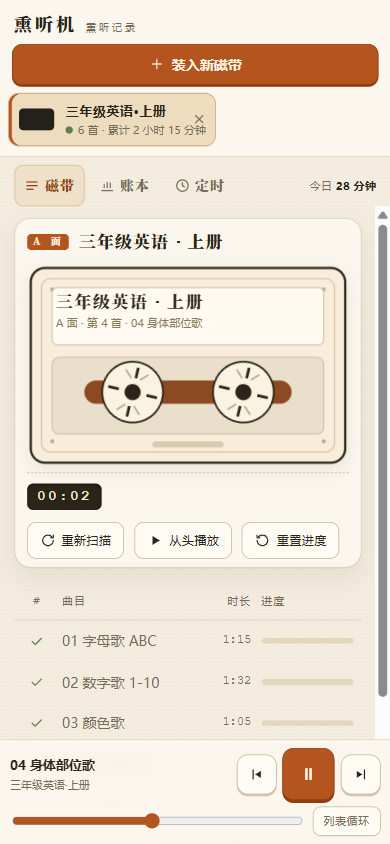
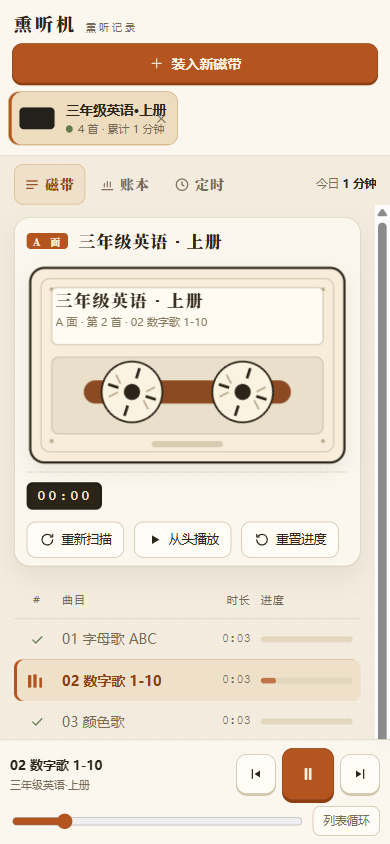
design: 二轮美化 - 播放均衡器动效、账本纸横格线红栏、朱红总计

diff --git a/docs/index.html b/docs/index.html
@@ -111,6 +111,12 @@ svg.ic{width:16px;height:16px;fill:none;stroke:currentColor;stroke-width:1.8;str
 .trow.playing{background:var(--accent-soft);box-shadow:inset 3px 0 0 var(--accent)}
 .trow.done .t-name{color:var(--ink2)}
 .t-idx{color:var(--ink2);text-align:center;font:11px/1 "Courier New",monospace;letter-spacing:1px;display:block;width:100%}
+.trow.playing .t-idx{color:var(--accent-2)}
+.eq{display:flex;align-items:flex-end;gap:2.5px;height:14px;width:18px;margin:0 auto}
+.eq i{width:3px;background:var(--accent);border-radius:1px;animation:eqb 0.9s ease-in-out infinite alternate}
+.eq i:nth-child(2){animation-duration:.7s;animation-delay:.12s}
+.eq i:nth-child(3){animation-duration:1.1s;animation-delay:.05s}
+@keyframes eqb{from{height:3px}to{height:14px}}
 .t-idx svg{margin:0 auto;color:var(--ok)}
 .t-name{min-width:0;white-space:nowrap;overflow:hidden;text-overflow:ellipsis;font-weight:500}
 .trow.playing .t-name{color:var(--accent-2);font-weight:600}
@@ -124,6 +130,12 @@ svg.ic{width:16px;height:16px;fill:none;stroke:currentColor;stroke-width:1.8;str
 .empty .btn{margin-top:16px}
 /* ===== 账本（统计） ===== */
 .ledger{background:var(--panel);border:1px solid var(--line);border-radius:14px;box-shadow:var(--shadow);margin-bottom:16px;overflow:hidden}
+.ledger{background-image:linear-gradient(#EFE6D3 1px,transparent 1px),linear-gradient(90deg,transparent calc(6px),#D8A79A calc(6px),#D8A79A calc(7px),transparent calc(7px));background-size:100% 27px,100% 100%;background-position:0 14px,0 0}
+.scell b.ink-red{color:#A03123}
+.ledger-head{border-bottom:1px solid #C9A79B!important}
+.ledger::after{content:'第 ' counter(ledger-page) ' 页';display:block;text-align:right;color:#B08A79;font-size:10px;letter-spacing:2px;padding:6px 12px 8px}
+.ledger{counter-increment:ledger-page}
+body{counter-reset:ledger-page}
 .ledger-head{display:flex;align-items:center;justify-content:space-between;padding:12px 18px 8px;border-bottom:1px solid var(--line)}
 .ledger-head h3{margin:0;font:600 15px/1.3 var(--serif);letter-spacing:2px}
 .ledger-head small{color:var(--ink2);font-size:10.5px;letter-spacing:1px}
@@ -860,9 +872,10 @@ function renderTracks(){
   const html = a.tracks.map((t, i)=>{
     const pct = t.dur ? Math.min(100, (t.pos/t.dur*100)) : (t.sec > 0 ? 100 : 0);
     const isCur = a.id === curAlbumId && i === curIdx;
-    const idxCell = t.done
-      ? '<span class="t-idx"><svg class="ic"><use href="#i-check"/></svg></span>'
-      : '<span class="t-idx">'+(i+1)+'</span>';
+    let idxCell;
+    if (isCur){ idxCell = '<span class="eq"><i></i><i></i><i></i></span>'; }
+    else if (t.done){ idxCell = '<span class="t-idx"><svg class="ic"><use href="#i-check"/></svg></span>'; }
+    else { idxCell = '<span class="t-idx">'+(i+1)+'</span>'; }
     return '<div class="trow'+(isCur?' playing':'')+(t.done?' done':'')+'" data-i="'+i+'">'
       + idxCell
       + '<div class="t-name" title="'+esc(t.path)+'">'+esc(stripExt(t.name))+'</div>'
@@ -900,6 +913,7 @@ function renderStats(){
   $('sToday').textContent = fmtHM(today);
   $('s7').textContent = fmtHM(last7);
   $('sTotal').textContent = fmtHM(stats.totalSec);
+  $('sTotal').classList.add('ink-red');
   const max = Math.max(1, ...days.map(d=>d.sec));
   $('barsBox').innerHTML = days.map(d=>{
     const h = Math.max(2, Math.round(d.sec/max*118));
